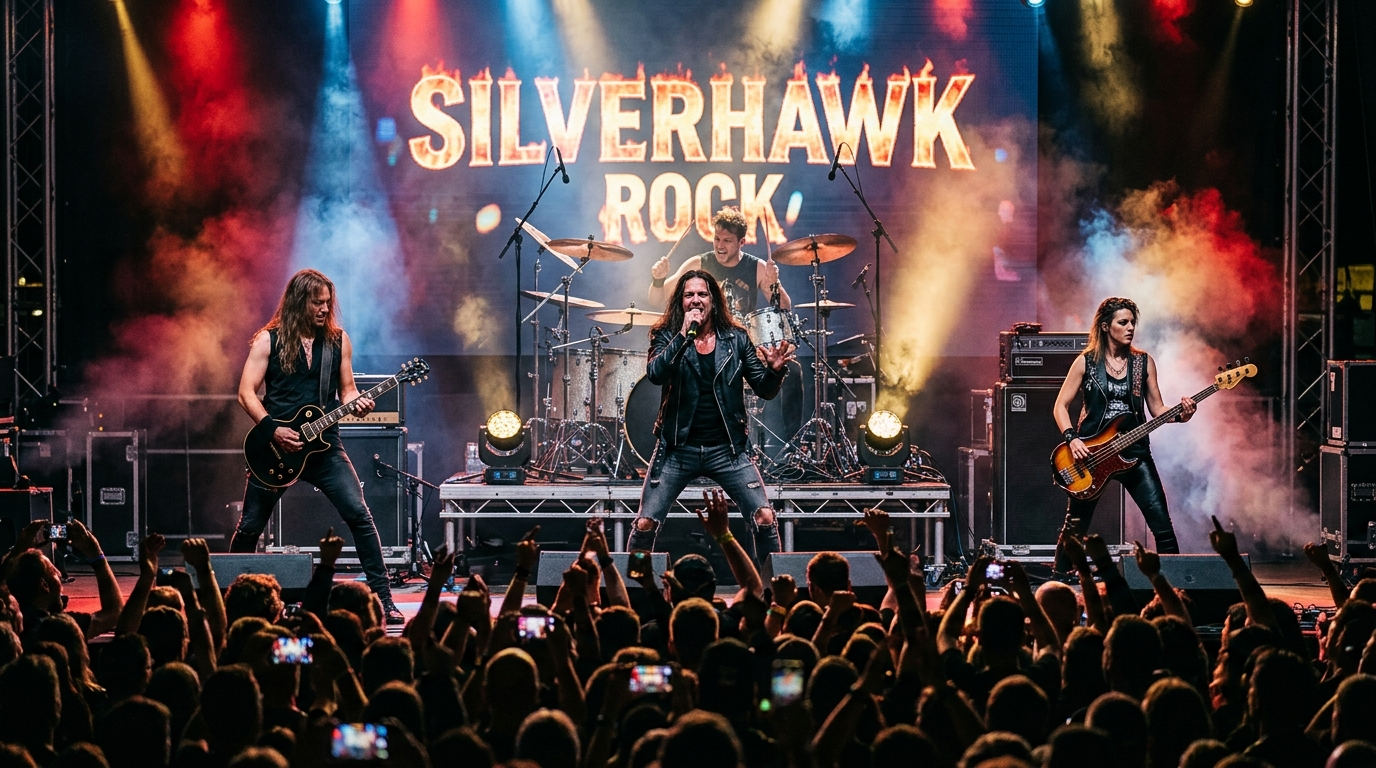
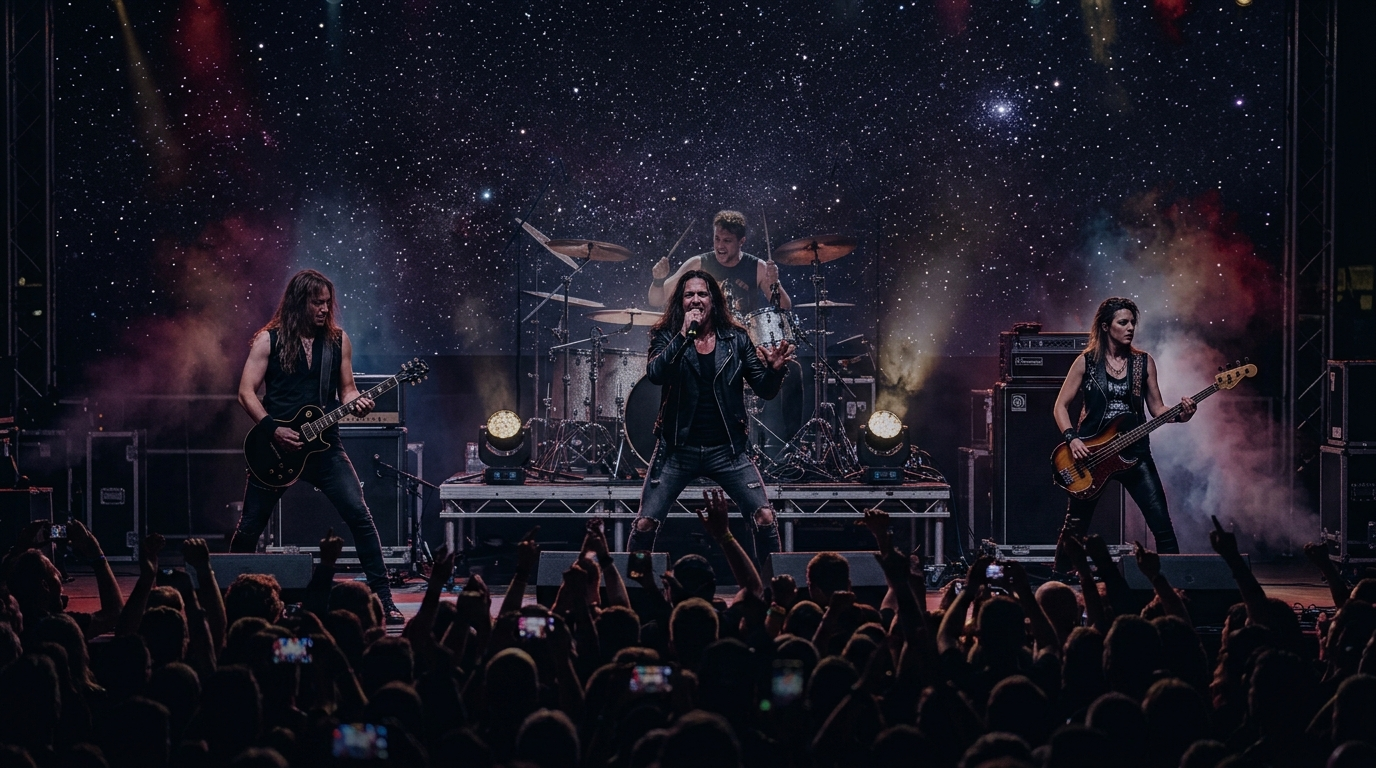
全部修改的

diff --git a/style.css b/style.css
@@ -3,10 +3,16 @@
     background-size: cover;
     text-align: center;
 }
+div {
+   
+    background: linear-gradient(to right, red, orange, yellow, green, blue, purple);
+    background-clip: text;  /* 按照文字裁切背景 */
+  }
 h1 {
+    
+    margin: 0;
     font-size: 50px;
-    color: white;
-    margin-top: 100px;
+    color: #0000;     /* 文字顏色設為透明 */
 }
 p {
     font-size: 20px;

diff --git a/script.js b/script.js
@@ -1,4 +1,4 @@
 let 今天 = new Date();
-let 演唱會日期 = new Date("2024-07-01");
+let 演唱會日期 = new Date("2026-10-20");
 let 倒數天數 = Math.ceil((演唱會日期 - 今天) / (1000 * 60 * 60 * 24));
 document.getElementById("倒數").innerText = "距離閃電樂團演唱會還有 " + 倒數天數 + " 天！";

diff --git a/index.html b/index.html
@@ -7,7 +7,7 @@
     <title>閃電樂團</title>
 </head>
 <body>
-    <h1>閃電樂團失語中</h1>
+   <div><h1>閃電樂團失語中</h1></div>
     <p>這是閃電樂團一個簡單演唱旅程。</p>
     <p id="倒數"></p>
     <script src="script.js"></script>
